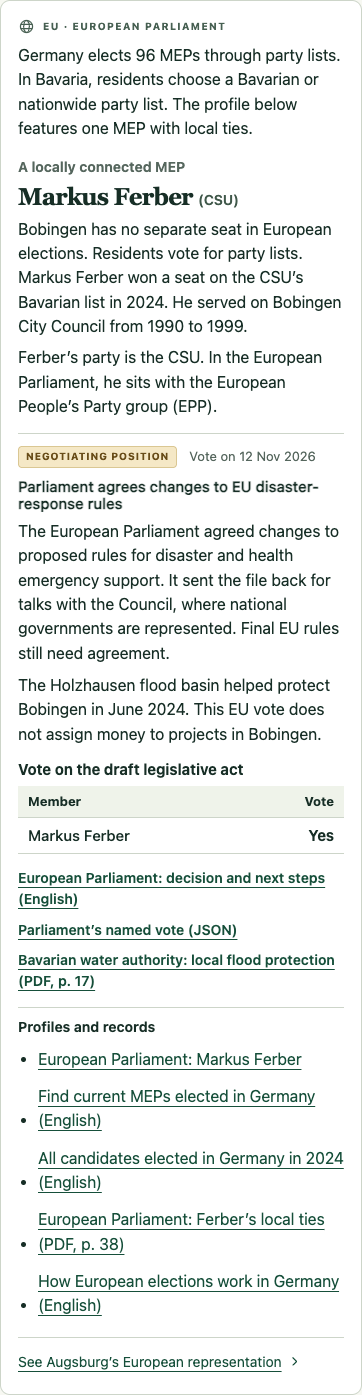
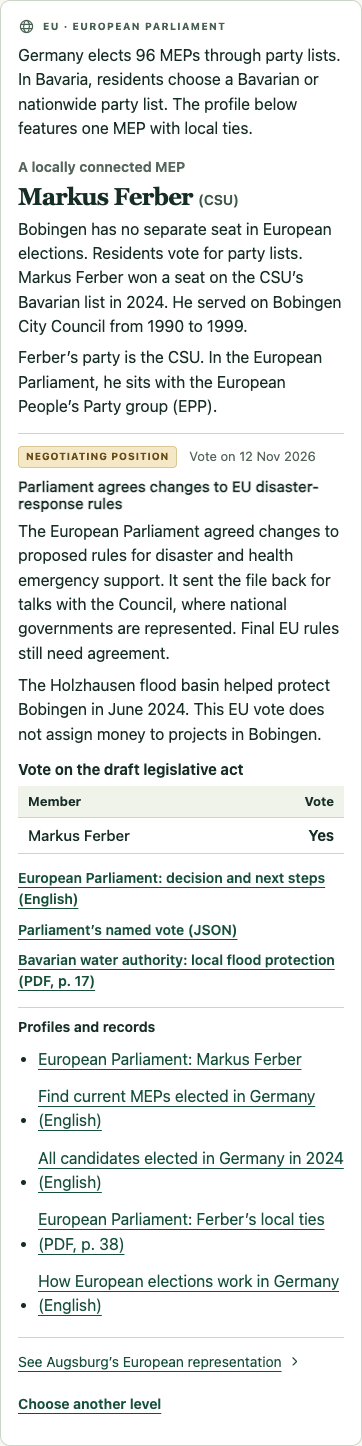
Finalize keyboard focus and release screenshots

Changed region(s): [[0.0304, 0.0, 0.942, 0.9864]]

diff --git a/docs/assets/style.css b/docs/assets/style.css
@@ -869,6 +869,9 @@ main,footer {
 .mapcaption:hover {
   text-decoration:underline;
 }
+.mapcaption:focus-visible {
+  outline-offset:0;
+}
 @media(max-width:680px) {
   .mapbox {
     background-size:auto 100%;

diff --git a/REVIEW.md b/REVIEW.md
@@ -55,7 +55,7 @@ Three independent agent reviewers checked the next working version. The source r
 - **A recent EU action.** Both cities now show Parliament’s 12 November changes to proposed disaster-response rules. The status is “Negotiating position”. The text says final rules still need agreement and that this vote assigns no project money to either city. The local examples use a Bavarian water authority report for Bobingen and Augsburg’s own flood-response account for the independent city.
 - **A named EU vote.** Two reviewers independently retrieved the official decision and member identity. Ferber’s Yes belongs to the draft legislative act, decision 200101. Parliament’s separate referral for talks, decision 200102, was by show of hands. The interface attributes the referral to Parliament. [Exact evidence and ballot scope](data/EU-EVIDENCE.md)
 - **Ten-second reading.** The revised Bobingen first screen still identifies Mayor Michael Ammer calling the public solar-panel meeting. The Augsburg first screen identifies the environment office granting Everllence a cooling-water permit.
-- **Keyboard and longer visits.** The first review found the sidebar clipped three sides of the focus outline. Its focus ring now sits inside the link. Desktop navigation remains available as profiles scroll. The reviewer checked normal and doubled text at 1440 × 1000, 1366 × 768 and 1024 × 600. All level links remained reachable, Tab exited the sidebar, and mouse scrolling continued into the page at its boundary.
+- **Keyboard and longer visits.** The first review found the sidebar clipped three sides of the focus outline. Its focus ring now sits inside the link. A final 320-pixel check also found the map-credit outline cropped by the rounded header panel. Its offset now fits within the available space, with all four sides visible. Desktop navigation remains available as profiles scroll. The reviewer checked normal and doubled text at 1440 × 1000, 1366 × 768 and 1024 × 600. All level links remained reachable, Tab exited the sidebar, and mouse scrolling continued into the page at its boundary.
 - **Returning on a phone.** Each profile now links back to the level chooser. Chrome and WebKit opened the native disclosure and focused its navigation with JavaScript disabled. The independent reader repeated this for both cities at 320 and 390 pixels, with normal and doubled text. Desktop uses the persistent sidebar, and return links are hidden in print.
 - **Focused sections.** Chrome initially exposed the focused EU section with nearly its entire text as its accessible name. Profiles now have concise names combining the government level and representative. The district finder also has a concise region name, and evidence articles use their story titles. An independent recheck confirmed keyboard focus reaches the named target and the next Tab reaches the source. The offline checker validates these label references. This checks the accessibility tree and keyboard behavior, with screen-reader testing still pending.
 - **Mobile and accessibility.** Six pages fit at 320 and 390 pixels with normal and doubled text. The vote column now stays unbroken. Axe reported zero violations and zero incomplete checks across six pages at 320 and 1366 pixels. Automated checks and agent reviews do not replace testing with residents or screen-reader users.
@@ -66,7 +66,7 @@ Three independent agent reviewers checked the next working version. The source r
 
 ## Coverage and test limits
 
-The snapshot is updated by hand. Profiles cover selected votes, speeches and interviews. Some automated retrieval paths for council directories failed during review. The district’s current roster and Naumann’s profile were subsequently verified through the official portal link. The March election returns show who was elected at that time. Later membership changes require a current roster or separate evidence.
+The snapshot is updated by hand. Finding a street address requires the linked city street directory; the on-page selector uses the 42 city districts. Profiles cover selected votes, speeches and interviews. Some automated retrieval paths for council directories failed during review. The district’s current roster and Naumann’s profile were subsequently verified through the official portal link. The March election returns show who was elected at that time. Later membership changes require a current roster or separate evidence.
 
 The Swabian regional assembly brochure could be read in the web reader, but a direct download failed during review. The site also links to the final election record issued by the Government of Swabia. The European Parliament blocked the web reader’s initial member-profile request. During the further review, direct requests returned the full profile and current German delegation directory. The Open Data API supplied the named vote. The Federal Returning Officer’s record provides additional evidence of the mandate.
 
